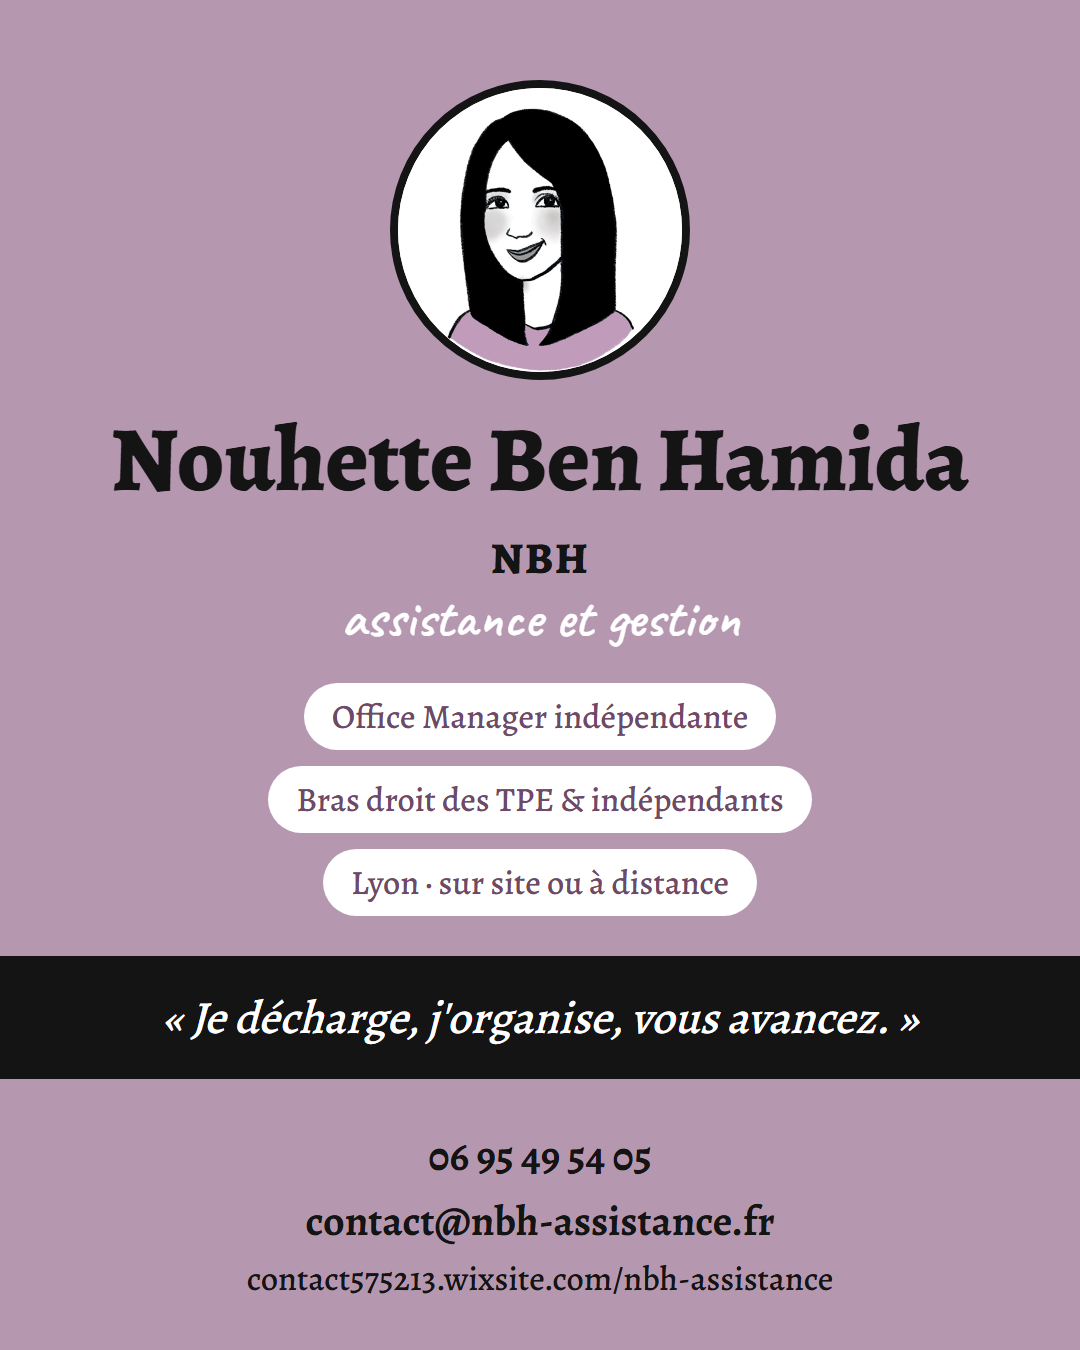
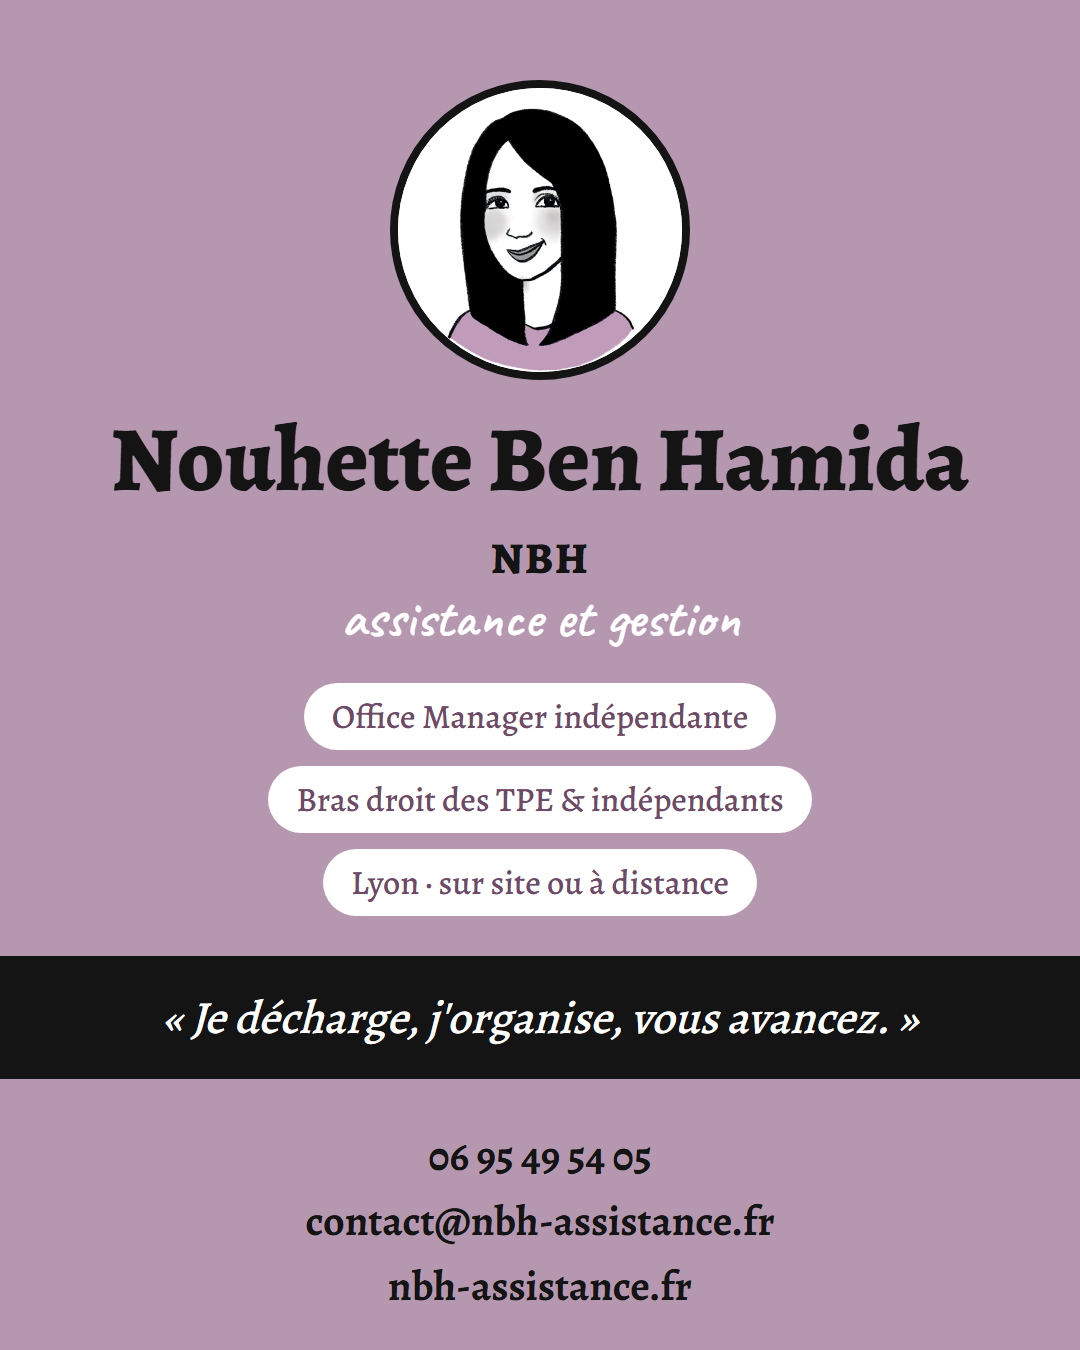
Nouvelle adresse du site : nbh-assistance.fr

Changed region(s): [[0.2139, 0.9333, 0.7639, 0.9644]]

diff --git a/index.html b/index.html
@@ -165,9 +165,9 @@
       <svg viewBox="0 0 24 24" fill="none" stroke="currentColor" stroke-width="2" stroke-linecap="round" stroke-linejoin="round" aria-hidden="true"><rect x="2" y="4" width="20" height="16" rx="2"/><path d="m22 6-10 7L2 6"/></svg>
       <span class="texte">M'écrire <small>contact@nbh-assistance.fr</small></span>
     </a>
-    <a class="bouton detail" href="https://contact575213.wixsite.com/nbh-assistance" target="_blank" rel="noopener">
+    <a class="bouton detail" href="https://nbh-assistance.fr" target="_blank" rel="noopener">
       <svg viewBox="0 0 24 24" fill="none" stroke="currentColor" stroke-width="2" stroke-linecap="round" stroke-linejoin="round" aria-hidden="true"><circle cx="12" cy="12" r="10"/><path d="M2 12h20M12 2a15.3 15.3 0 0 1 4 10 15.3 15.3 0 0 1-4 10 15.3 15.3 0 0 1-4-10 15.3 15.3 0 0 1 4-10z"/></svg>
-      <span class="texte">Voir mon site <small>contact575213.wixsite.com/nbh-assistance</small></span>
+      <span class="texte">Voir mon site <small>nbh-assistance.fr</small></span>
     </a>
   </nav>
 
